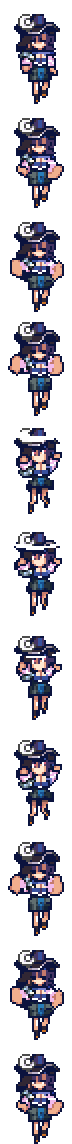
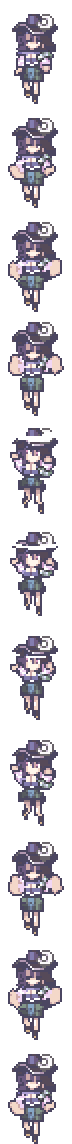
Buffs nerfs and clones

diff --git a/NPCs/Bosses/Verlia/VerliaB.cs b/NPCs/Bosses/Verlia/VerliaB.cs
@@ -151,7 +151,7 @@ namespace Stellamod.NPCs.Bosses.Verlia
 		{
 			NPC.Size = new Vector2(24, 42);
 			NPC.damage = 1;
-			NPC.defense = 20;
+			NPC.defense = 1;
 			NPC.lifeMax = 6000;
 			NPC.HitSound = SoundID.NPCHit1;
 			NPC.DeathSound = SoundID.NPCDeath1;
@@ -466,11 +466,11 @@ namespace Stellamod.NPCs.Bosses.Verlia
 					MoonStartSummonVerlia();
 					break;
 
-				//case ActionState.CloneSummonStartup:
-				//	NPC.damage = 0;
-				//	counter++;
-				//	CLoneStartSummonVerlia();
-				//	break;
+					case ActionState.CloneSummonStartup:
+					NPC.damage = 0;
+					counter++;
+					CloneStartSummonVerlia();
+					break;
 
 				case ActionState.SummonIdle:
 					NPC.damage = 0;
@@ -672,7 +672,7 @@ namespace Stellamod.NPCs.Bosses.Verlia
 			{
 				// We apply an initial velocity the first tick we are in the Jump frame. Remember that -Y is up.
 
-				switch (Main.rand.Next(2))
+				switch (Main.rand.Next(3))
 				{
 					case 0:
 						State = ActionState.SummonStartup;
@@ -682,6 +682,11 @@ namespace Stellamod.NPCs.Bosses.Verlia
 
 					case 1:
 						State = ActionState.MoonSummonStartup;
+						ResetTimers();
+						break;
+
+					case 2:
+						State = ActionState.CloneSummonStartup;
 						ResetTimers();
 						break;
 				}
@@ -876,7 +881,60 @@ namespace Stellamod.NPCs.Bosses.Verlia
 		}
 
 
+		private void CloneStartSummonVerlia()
+		{
+			NPC.spriteDirection = NPC.direction;
+			timer++;
+			if (timer == 2)
+			{
 
+
+				float speedXb = NPC.velocity.X * Main.rand.NextFloat(0f, 0f) + Main.rand.NextFloat(0f, 0f);
+				float speedYb = NPC.velocity.Y * Main.rand.Next(0, 0) * 0.0f + Main.rand.Next(0, 0) * 0f;
+				Projectile.NewProjectile(NPC.GetSource_FromThis(), NPC.position.X + speedXb - 15, NPC.position.Y + speedYb + 30, speedXb * 0, speedYb * 0, ModContent.ProjectileType<BackgroundOrb>(), (int)(0), 0f, 0, 0f, 0f);
+				Projectile.NewProjectile(NPC.GetSource_FromThis(), NPC.position.X + speedXb - 30, NPC.position.Y + speedYb + 40, speedXb * 0, speedYb * 0, ModContent.ProjectileType<Sigil>(), (int)(0), 0f, 0, 0f, 0f);
+			}
+			if (timer > 5)
+			{
+				switch (Main.rand.Next(1))
+				{
+
+					case 0:
+						if (timer == 6)
+						{
+							float speedXd = NPC.velocity.X * Main.rand.NextFloat(.3f, .3f) + Main.rand.NextFloat(4f, 4f);
+							float speedYd = NPC.velocity.Y * Main.rand.Next(0, 0) * 0.0f + Main.rand.Next(0, 0) * 0f;
+							int index = NPC.NewNPC(NPC.GetSource_FromThis(), (int)NPC.Center.X, (int)NPC.Center.Y - 60, ModContent.NPCType<CloneV>());
+
+
+
+						}
+						break;
+				}
+
+			}
+			if (timer == 55)
+			{
+				// We apply an initial velocity the first tick we are in the Jump frame. Remember that -Y is up.
+				if (Main.netMode != NetmodeID.Server && Terraria.Graphics.Effects.Filters.Scene["Shockwave"].IsActive())
+				{
+					Terraria.Graphics.Effects.Filters.Scene["Shockwave"].Deactivate();
+				}
+
+				State = ActionState.SummonIdle;
+
+
+				ResetTimers();
+
+
+
+
+				// Finally, iterate through itemsToAdd and actually create the Item instances and add to the chest.item array
+
+
+			}
+
+		}
 
 
 
@@ -959,8 +1017,8 @@ namespace Stellamod.NPCs.Bosses.Verlia
 					float speedXBa = NPC.velocity.X * Main.rand.NextFloat(-.3f, -.3f) + Main.rand.NextFloat(-4f, -4f);
 					float speedXa = NPC.velocity.X * Main.rand.NextFloat(.3f, .3f) + Main.rand.NextFloat(4f, 4f);
 					float speedYa = NPC.velocity.Y * Main.rand.Next(-1, -1) * 0.0f + Main.rand.Next(-4, -4) * 0f;
-					Projectile.NewProjectile(NPC.GetSource_FromThis(), NPC.position.X + speedXa + 60, NPC.position.Y + speedYa + 110, speedXa - 2 * 8, speedYa - 1 * 1, ModContent.ProjectileType<Strummer>(), (int)(5), 0f, 0, 0f, 0f);
-					Projectile.NewProjectile(NPC.GetSource_FromThis(), NPC.position.X + speedXa + 60, NPC.position.Y + speedYa + 110, speedXBa + 2 * 8, speedYa - 1 * 1, ModContent.ProjectileType<Strummer>(), (int)(5), 0f, 0, 0f, 0f);
+					Projectile.NewProjectile(NPC.GetSource_FromThis(), NPC.position.X + speedXa + 60, NPC.position.Y + speedYa + 110, speedXa - 2 * 8, speedYa - 1 * 1, ModContent.ProjectileType<Strummer>(), (int)(7), 0f, 0, 0f, 0f);
+					Projectile.NewProjectile(NPC.GetSource_FromThis(), NPC.position.X + speedXa + 60, NPC.position.Y + speedYa + 110, speedXBa + 2 * 8, speedYa - 1 * 1, ModContent.ProjectileType<Strummer>(), (int)(7), 0f, 0, 0f, 0f);
 			
 				}
 			}
@@ -1022,17 +1080,17 @@ namespace Stellamod.NPCs.Bosses.Verlia
 				float speedYb = NPC.velocity.Y * Main.rand.Next(-1, -1) * 0.0f + Main.rand.Next(-4, -4) * 0f;
 				if (timer == 25)
 				{
-					Projectile.NewProjectile(NPC.GetSource_FromThis(), NPC.position.X + speedXb, NPC.position.Y + speedYb + 10, speedXb - 2 * 2, speedYb - 2 * 2, ModContent.ProjectileType<FrostShot2>(), (int)(10), 0f, 0, 0f, 0f);
+					Projectile.NewProjectile(NPC.GetSource_FromThis(), NPC.position.X + speedXb, NPC.position.Y + speedYb + 10, speedXb - 2 * 2, speedYb - 2 * 2, ModContent.ProjectileType<FrostShot2>(), (int)(17), 0f, 0, 0f, 0f);
 				}
 				
 				if (timer == 45)
 				{
-					Projectile.NewProjectile(NPC.GetSource_FromThis(), NPC.position.X + speedXb, NPC.position.Y + speedYb + 10, speedXb - 2 * 2, speedYb - 2 * 2, ModContent.ProjectileType<FrostShot2>(), (int)(10), 0f, 0, 0f, 0f);
+					Projectile.NewProjectile(NPC.GetSource_FromThis(), NPC.position.X + speedXb, NPC.position.Y + speedYb + 10, speedXb - 2 * 2, speedYb - 2 * 2, ModContent.ProjectileType<FrostShot2>(), (int)(17), 0f, 0, 0f, 0f);
 				}
 			
 				if (timer == 65)
 				{
-					Projectile.NewProjectile(NPC.GetSource_FromThis(), NPC.position.X + speedXb, NPC.position.Y + speedYb + 10, speedXb - 2 * 2, speedYb - 2 * 2, ModContent.ProjectileType<FrostShot2>(), (int)(10), 0f, 0, 0f, 0f);
+					Projectile.NewProjectile(NPC.GetSource_FromThis(), NPC.position.X + speedXb, NPC.position.Y + speedYb + 10, speedXb - 2 * 2, speedYb - 2 * 2, ModContent.ProjectileType<FrostShot2>(), (int)(17), 0f, 0, 0f, 0f);
 				}
 				
 				
@@ -1045,13 +1103,13 @@ namespace Stellamod.NPCs.Bosses.Verlia
 				float speedYb = NPC.velocity.Y * Main.rand.Next(-1, -1) * 0.0f + Main.rand.Next(-4, -4) * 0f;
 				if (timer == 15)
 				{
-					Projectile.NewProjectile(NPC.GetSource_FromThis(), NPC.position.X + speedXb, NPC.position.Y + speedYb + 10, speedXb - 2 * 2, speedYb - 2 * 2, ModContent.ProjectileType<FrostShot>(), (int)(15), 0f, 0, 0f, 0f);
+					Projectile.NewProjectile(NPC.GetSource_FromThis(), NPC.position.X + speedXb, NPC.position.Y + speedYb + 10, speedXb - 2 * 2, speedYb - 2 * 2, ModContent.ProjectileType<FrostShot>(), (int)(20), 0f, 0, 0f, 0f);
 				}
 				
 				
 				if (timer == 45)
 				{
-					Projectile.NewProjectile(NPC.GetSource_FromThis(), NPC.position.X + speedXb, NPC.position.Y + speedYb + 10, speedXb - 2 * 2, speedYb - 2 * 2, ModContent.ProjectileType<FrostShot>(), (int)(15), 0f, 0, 0f, 0f);
+					Projectile.NewProjectile(NPC.GetSource_FromThis(), NPC.position.X + speedXb, NPC.position.Y + speedYb + 10, speedXb - 2 * 2, speedYb - 2 * 2, ModContent.ProjectileType<FrostShot>(), (int)(20), 0f, 0, 0f, 0f);
 				}
 				
 			}
@@ -1196,7 +1254,7 @@ namespace Stellamod.NPCs.Bosses.Verlia
 
                 else
                 {
-					switch (Main.rand.Next(2))
+					switch (Main.rand.Next(3))
 					{
 						case 0:
 							State = ActionState.SummonStartup;
@@ -1205,6 +1263,11 @@ namespace Stellamod.NPCs.Bosses.Verlia
 
 						case 1:
 							State = ActionState.MoonSummonStartup;
+							ResetTimers();
+							break;
+
+						case 2:
+							State = ActionState.CloneSummonStartup;
 							ResetTimers();
 							break;
 					}

diff --git a/NPCs/Bosses/Verlia/Projectiles/CloneV.cs b/NPCs/Bosses/Verlia/Projectiles/CloneV.cs
@@ -32,7 +32,10 @@ namespace Stellamod.NPCs.Bosses.Verlia.Projectiles
 			Shoot
 		}
 		// Current state
-
+		public float AI_Timer;
+		public float Beam_Timer;
+		private float rand = 100000;
+		private float rand2 = 0;
 		public ActionState State = ActionState.Shoot;
 		// Current frame
 		public int frameCounter;
@@ -55,51 +58,53 @@ namespace Stellamod.NPCs.Bosses.Verlia.Projectiles
 			NPC.width = 36; // The width of the npc's hitbox (in pixels)
 			NPC.height = 52; // The height of the npc's hitbox (in pixels)
 			NPC.aiStyle = -1; // This npc has a completely unique AI, so we set this to -1. The default aiStyle 0 will face the player, which might conflict with custom AI code.
-			NPC.damage = 50; // The amount of damage that this npc deals
+			NPC.damage = 1; // The amount of damage that this npc deals
 			NPC.defense = 0; // The amount of defense that this npc has
-			NPC.lifeMax = 200; // The amount of health that this npc has
+			NPC.lifeMax = 120; // The amount of health that this npc has
 			NPC.HitSound = SoundID.NPCHit1; // The sound the NPC will make when being hit.
 			NPC.DeathSound = new SoundStyle("Stellamod/Assets/Sounds/Morrowsc1");
 			NPC.knockBackResist = 0f;
-			
+			NPC.noTileCollide = true;
+			NPC.noGravity = true;
+			NPC.alpha = 125;
+
 		}
 
 
-	
+
 		public override void AI()
 		{
+			NPC.damage = 0;
 			switch (State)
 			{
-
+				
 				case ActionState.Shoot:
-					NPC.velocity *= 0.95f;
 					counter++;
+					NPC.velocity *= 0f;
 					Jump();
 					break;
 
 				case ActionState.Wait:
 					counter++;
-					NPC.aiStyle = 10;
+					NPC.aiStyle = 86;
+					NPC.velocity *= 0.96f;
 					Wait();
 					break;
 
 
-				default:
-					counter++;
-					break;
 			}
 
 
+
+
+
+			
 
 
 			Vector3 RGB = new(2.30f, 0.21f, 0.72f);
 			// The multiplication here wasn't doing anything
 			Lighting.AddLight(NPC.position, RGB.X, RGB.Y, RGB.Z);
 
-			//for (int j = 0; j < 2; j++)
-			//{
-			//	Projectile.NewProjectile(NPC.GetSource_FromThis(), NPC.position, NPC.velocity * 0, ProjectileID.Spark, NPC.damage / 2, NPC.knockBackResist);
-			//}
 		}
 		public override bool PreDraw(SpriteBatch spriteBatch, Vector2 screenPos, Color drawColor)
 		{
@@ -120,14 +125,32 @@ namespace Stellamod.NPCs.Bosses.Verlia.Projectiles
 			{
 				case ActionState.Shoot:				
 					rect = new Rectangle(0, 2 * 104, 36, 10 * 104);
-					spriteBatch.Draw(texture, NPC.position - screenPos, texture.AnimationFrame(ref frameCounter, ref frameTick, 4, 10, rect), drawColor, 0f, Vector2.Zero, 1f, effects, 0f);
+					spriteBatch.Draw(texture, NPC.position - screenPos - new Vector2(15, 25), texture.AnimationFrame(ref frameCounter, ref frameTick, 4, 10, rect), drawColor, 0f, Vector2.Zero, 1f, effects, 0f);
 					break;
 				case ActionState.Wait:
 					rect = new Rectangle(0, 1 * 104, 36, 1 * 104);
-					spriteBatch.Draw(texture, NPC.position - screenPos, texture.AnimationFrame(ref frameCounter, ref frameTick, 60, 1, rect), drawColor, 0f, Vector2.Zero, 1f, effects, 0f);
+					spriteBatch.Draw(texture, NPC.position - screenPos - new Vector2(15, 25), texture.AnimationFrame(ref frameCounter, ref frameTick, 60, 1, rect), drawColor, 0f, Vector2.Zero, 1f, effects, 0f);
 					break;
 
 			}
+
+
+			// Draw the periodic glow effect behind the item when dropped in the world (hence PreDrawInWorld)
+
+
+
+
+
+
+			
+
+			// Using a rectangle to crop a texture can be imagined like this:
+			// Every rectangle has an X, a Y, a Width, and a Height
+			// Our X and Y values are the position on our texture where we start to sample from, using the top left corner as our origin
+			// Our Width and Height values specify how big of an area we want to sample starting from X and Y
+
+
+			
 			return false;
 		}
 		
@@ -169,7 +192,7 @@ namespace Stellamod.NPCs.Bosses.Verlia.Projectiles
 
 		public override Color? GetAlpha(Color lightColor)
 		{
-			return new Color(90, 200, 210, 125) * (1f - (float)NPC.alpha / 50f);
+			return new Color(90, 200, 210, 200) * (1f - (float)NPC.alpha / 50f);
 		}
 		public override void SetBestiary(BestiaryDatabase database, BestiaryEntry bestiaryEntry)
 		{
@@ -180,5 +203,9 @@ namespace Stellamod.NPCs.Bosses.Verlia.Projectiles
 				new FlavorTextBestiaryInfoElement("Clone of a powerfu sexy goddess :)")
 			});
 		}
+
+
+		
+
 	}
 }

diff --git a/WorldG/StellaWorld.cs b/WorldG/StellaWorld.cs
@@ -55,7 +55,7 @@ namespace Stellamod.WorldG
 
 			}
 
-			int CathedralGen = tasks.FindIndex(genpass => genpass.Name.Equals("Moss Grass"));
+			int CathedralGen = tasks.FindIndex(genpass => genpass.Name.Equals("Final Cleanup"));
 			if (CathedralGen != -1)
 			{
 
@@ -63,7 +63,7 @@ namespace Stellamod.WorldG
 				tasks.Insert(CathedralGen + 2, new PassLegacy("World Gen Village", WorldGenVillage));
 			}
 
-			int ShiniesIndex = tasks.FindIndex(genpass => genpass.Name.Equals("Final Cleanup"));
+			int ShiniesIndex = tasks.FindIndex(genpass => genpass.Name.Equals("Moss Grass"));
 			if (ShiniesIndex != -1)
 			{
 

diff --git a/NPCs/Bosses/Verlia/Projectiles/TheMoon.cs b/NPCs/Bosses/Verlia/Projectiles/TheMoon.cs
@@ -22,7 +22,7 @@ namespace Stellamod.NPCs.Bosses.Verlia.Projectiles
 		public override void SetDefaults()
 		{
 			Projectile.friendly = false;
-			Projectile.hostile = true;
+			Projectile.hostile = false;
 			Projectile.width = 300;
 			Projectile.height = 300;
 			Projectile.penetrate = -1;

diff --git a/NPCs/Bosses/Verlia/Projectiles/GhostCharger.cs b/NPCs/Bosses/Verlia/Projectiles/GhostCharger.cs
@@ -51,7 +51,7 @@ namespace Stellamod.NPCs.Bosses.Verlia.Projectiles
 			NPC.defense = 0;
 			NPC.lifeMax = 50;
 			NPC.noGravity = true;
-			NPC.noTileCollide = false;
+			NPC.noTileCollide = true;
 			NPC.HitSound = SoundID.NPCHit1;
 			NPC.DeathSound = SoundID.NPCDeath1;
 		}

diff --git a/Items/weapons/ranged/Violar.cs b/Items/weapons/ranged/Violar.cs
@@ -36,7 +36,7 @@ namespace Stellamod.Items.Weapons.Ranged
 
 			// Weapon Properties
 			Item.DamageType = DamageClass.Ranged;
-			Item.damage = 18;
+			Item.damage = 22;
 			Item.knockBack = 5f;
 			Item.noMelee = true;
 			Item.crit = 25;

diff --git a/Items/Weapons/Ranged/Teraciz.cs b/Items/Weapons/Ranged/Teraciz.cs
@@ -38,7 +38,7 @@ namespace Stellamod.Items.Weapons.Ranged
 
 			// Weapon Properties
 			Item.DamageType = DamageClass.Ranged;
-			Item.damage = 35;
+			Item.damage = 25;
 			Item.knockBack = 0;
 			Item.noMelee = true;
 
